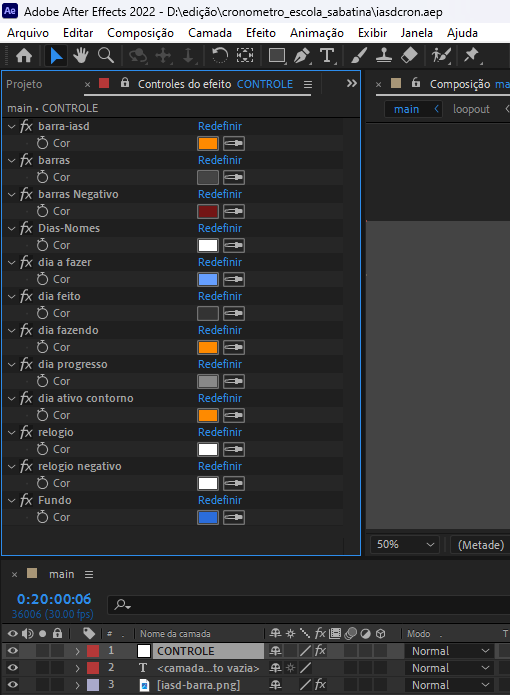
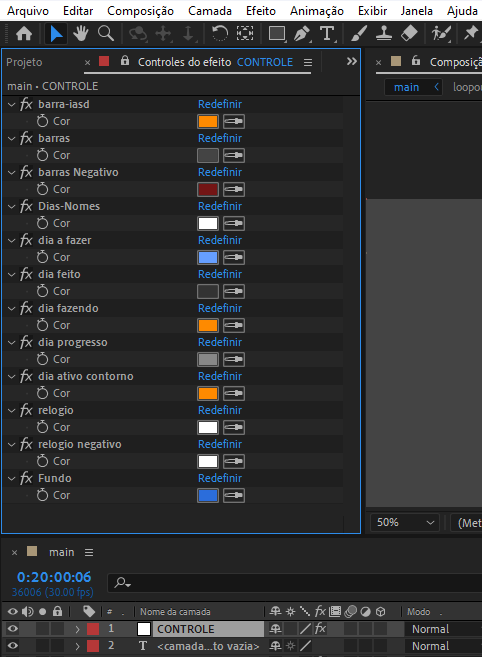
crop da screen, add thumb e adicionado no readme video e explicacao

Changed region(s): [[0.0, 0.0, 1.0, 1.0], [0.9959, 0.9437, 1.0, 0.9741]]

diff --git a/README.md b/README.md
@@ -5,6 +5,18 @@ Este é um vídeo em 4k feito para marcar tempo e "ritmo" da lição da escola s
 
 Para evitar interrupções no raciocínio ele é silêncioso, exceto a cada 7 (sete) minutos onde há emissão sonora de clocks de relógio (sutis); e quando resta apenas 7 (sete) e 1 (um) minuto(s) - há aviso em locução e melodia, sendo melodia constante apenas a partir de 1 (um) minuto restante. Assim, ao executá-lo, deixe o canal de som aberto sem preocupações.
 
+### Exemplo curto
+
+Nota: todas as cores são facilmente personalizáveis.
+
+[![Exemplo curto](https://raw.githubusercontent.com/iasdme/es-cron/master/doc/demo-thumb.jpg)](https://raw.githubusercontent.com/iasdme/es-cron/master/doc/demo.mp4)
+
+#### Configuração
+
+As cores são fácilmente editáveis:
+
+<img width="50%" src="https://raw.githubusercontent.com/iasdme/es-cron/master/doc/screen.png">
+
 ## Recurso externo
 
 Recursos grandes - geralmente vídeos - não estão inclusos e devem ser baixados à parte:
@@ -28,7 +40,6 @@ Este ```.bat``` simplesmente executa o seguinte comando, que você também pode 
 ````
 ffmpeg -i %1 -y -vcodec libx264 -qp 0 -pix_fmt yuv420p -acodec copy "%1.mp4"
 ````
-
 ## Criador/contribuidor original
 
 <a href="https://github.com/jeanCarloEM" target="_blank">JeanCarloEM<a> | www.jeancarloem.com
